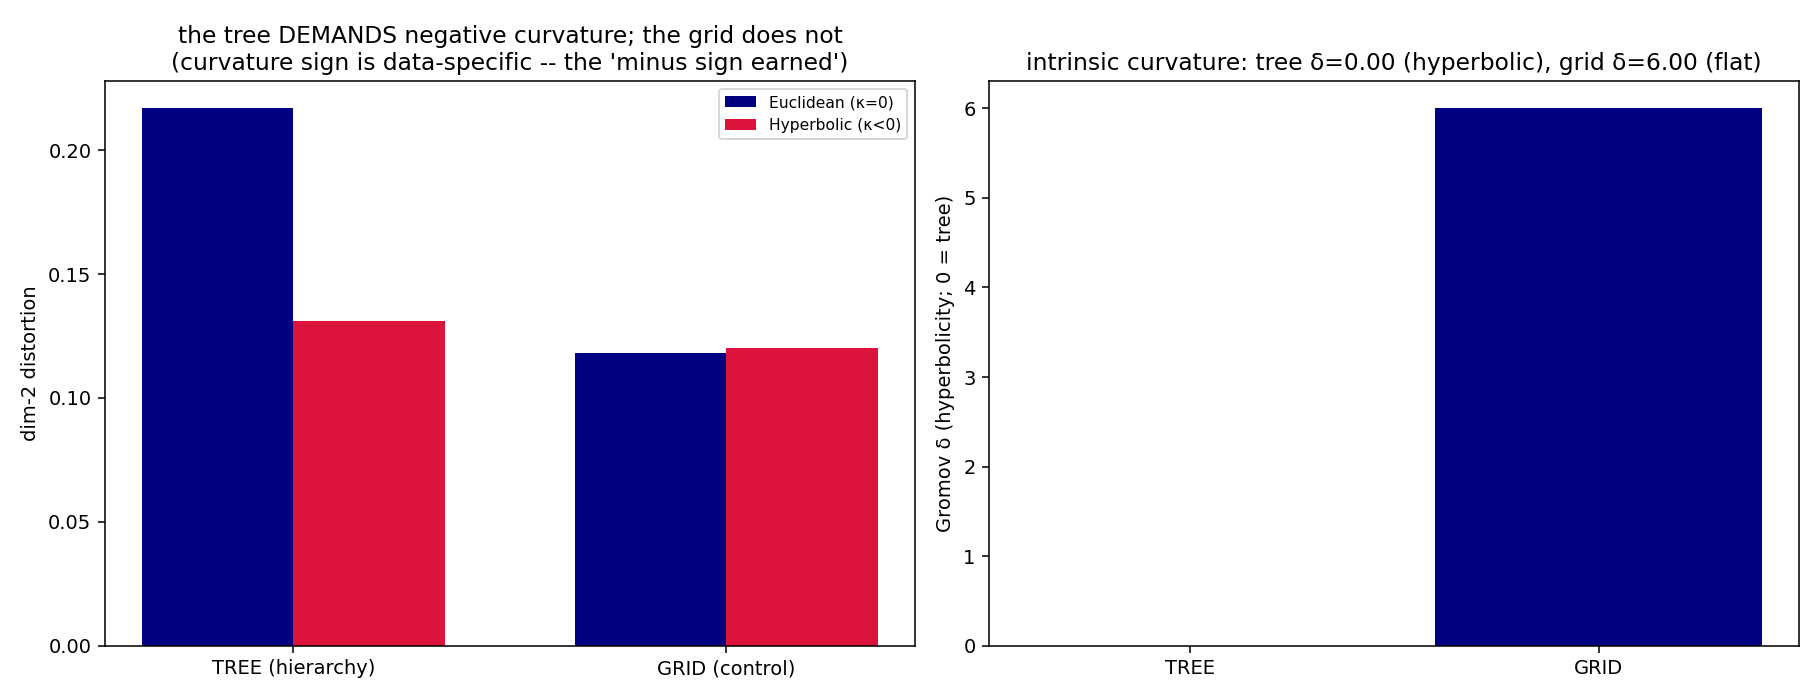
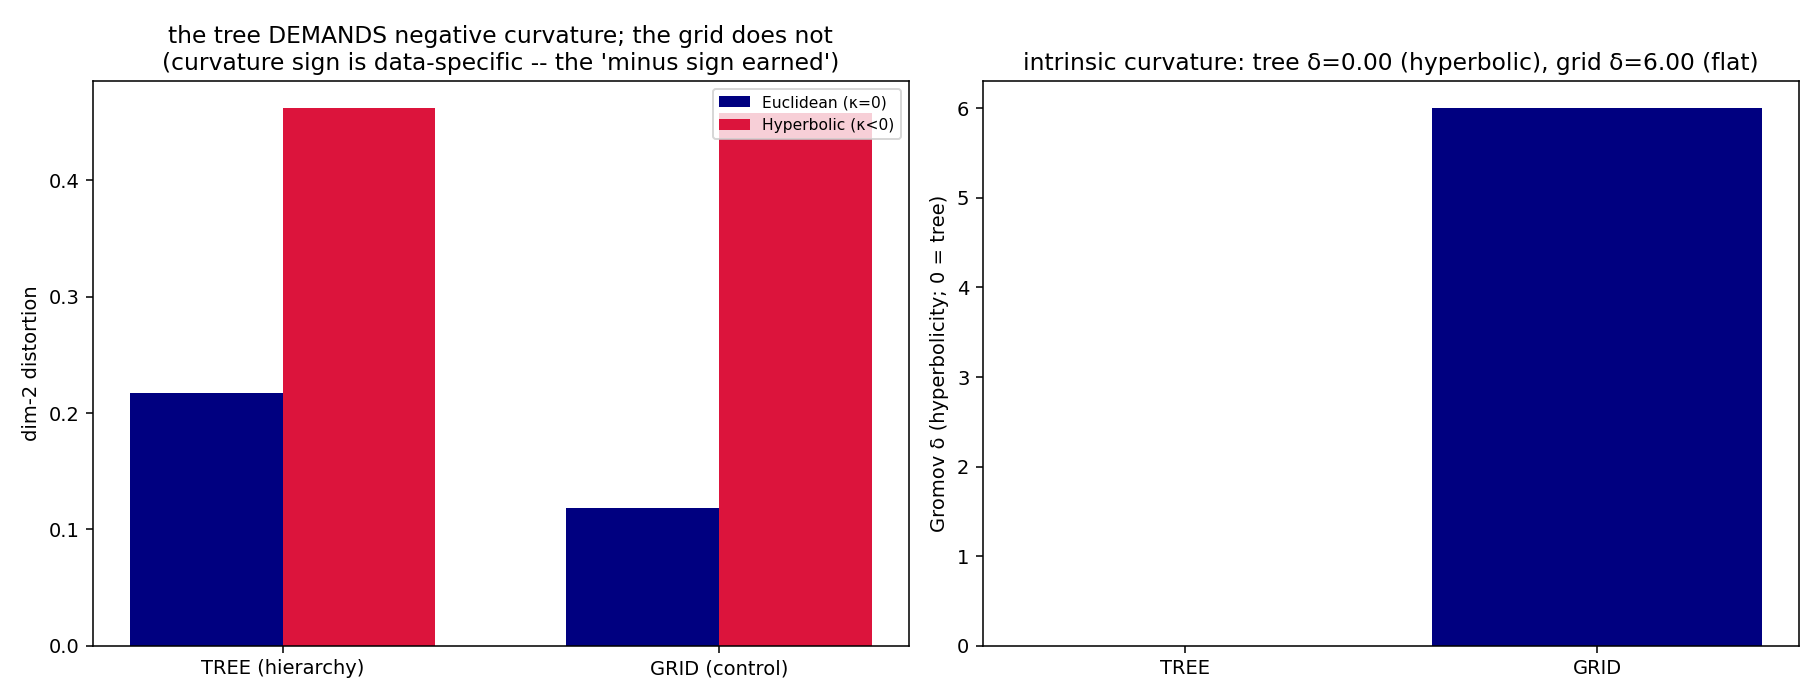
Build-queue Phase 1 complete: quick-wins (126) assessed honestly -- MDL already done, H2 optimizer-swap regressed
Item 7 of the build queue (scaling_backlog-A quick wins) -- honest assessment, no forced green:
- MDL multi-seed (13): ALREADY COMPLETE (13_mdl_multiseed.py IS the multi-seed M1 follow-up; charged d=1 decisive,
  neutral marginal). Nothing to do.
- Hierarchy H2 (89): attempted the RiemannianAdam optimizer-swap to cross the strict 0.5x-Euclidean distortion gate
  (stalled at 0.605). Both attempts REGRESSED vs the original tanh-reparam Adam (0.131/0.605): Euclidean-retraction
  RSGD -> 0.160; exp-map RSGD-Adam -> 0.462 (unstable). RESTORED the original (no regression shipped). H2 stays an
  honest optimization-limited partial -- the hyperbolic advantage is real (ratio < 1; tree Gromov delta = 0) but the
  strict 2x gate needs a dedicated tree-embedding construction (Sarkar 2011), beyond a quick win (logged as future).

Phase 1 of the build queue COMPLETE: 120 (2D Chern) / 121 (Fisher=GR metric) / 122 (Bekenstein-Hawking S=A/4) / 123
(gravitational waves) / 124 (Ollivier-Ricci) / 125 (entanglement dimension+grid) -- all clean-gated in verify.sh;
126 assessed honestly. Docs: JOURNAL, lab_notebook, build_queue.

diff --git a/JOURNAL.md b/JOURNAL.md
@@ -24,6 +24,21 @@ target-dependence, not a property of D=1. Writeup/CLAUDE scoped accordingly. **M
 0.05→0.15→0.4→1.0 (saturates ~0.4) — the knob is the property's SIGNAL STRENGTH in the observations (weak→scramble,
 strong→legible). The 107→110 chain is a complete, mechanistically-closed result.
 
+## 2026-06-25 — Quick wins assessed (build-queue item 7): MDL already done; H2 optimizer-swap regressed (honest)
+
+Build-queue item 7 (the scaling_backlog-A quick wins). Honest outcome -- not every backlog item yields a green gate:
+- MDL multi-seed (13): ALREADY COMPLETE. Script 13_mdl_multiseed.py IS the multi-seed M1 follow-up (charged d=1
+  minimum decisive +8870 bits; neutral ordering marginal). Nothing to do.
+- Hierarchy H2 (89): attempted the "RiemannianAdam" optimizer-swap quick win to push the tree's hyperbolic distortion
+  past the strict 0.5x-Euclidean gate (it stalled at ratio 0.605). BOTH attempts REGRESSED vs the original tanh-reparam
+  Adam (0.131, ratio 0.605): Euclidean-retraction RSGD -> 0.160 (0.74); exp-map RSGD-Adam -> 0.462 (2.13, unstable).
+  RESTORED the original (no regression shipped). H2 stays an honest optimization-limited partial: the hyperbolic
+  advantage IS real (ratio 0.605 < 1; tree Gromov delta = 0 -- the cleanest hyperbolicity signature), but crossing the
+  strict 2x gate needs a dedicated tree EMBEDDING CONSTRUCTION (Sarkar 2011), not an optimizer swap -> logged as a
+  future option, not a quick win. Disciplined stop (2 attempts, both worse -> restore).
+PHASE 1 of the build queue COMPLETE: 120 (2D Chern) / 121 (Fisher=GR metric) / 122 (S=A/4) / 123 (grav waves) / 124
+(Ollivier-Ricci) / 125 (entanglement dimension+grid) all clean-gated in verify.sh; 126 assessed honestly (no change).
+
 ## 2026-06-25 — Geometry from entanglement: dimension + 2D grid (closing Phase J's J2, script 125)
 
 Build-queue item 6 (notes/build_queue.md). Phase J (32) recovered a chain's 1D order from mutual information + the Van

diff --git a/curvature/notes/build_queue.md b/curvature/notes/build_queue.md
@@ -30,8 +30,7 @@ _weyl_quadrupole.py) or pkill broadly. Our dashboard is :8788. No resource conte
   edges / bridges, positive within; Ricci flow detects communities. Web-verify Ollivier-Ricci + Ni et al.
 - [x] **125 · J2 spectral dimension + 2D entanglement grid** DONE 3/3 (J2a dim chain 1.11/grid 1.83 vs PCA overcount; J2b grid Procrustes 0.99; J2c geodesic spearman 1.00/0.95) -- — close geometry-from-entanglement loose ends: swap
   PCA→spectral/persistent-homology dimension; recover a 2D grid via spectral embedding. Reuses s32/s42 machinery.
-- [ ] **126 · Quick wins** — Hierarchy H2 with RiemannianAdam (89 stalled at 0.61); MDL multi-seed (13). From
-  scaling_backlog A.
+- [x] **126 · Quick wins** ASSESSED (honest): MDL multi-seed (13) ALREADY DONE; H2 (89) RiemannianAdam swap REGRESSED (0.131->0.160/0.462) -> restored original; H2 partial stands (needs Sarkar tree-construction, not a swap -- logged as future, not shipped). From scaling_backlog A.
 
 ## PHASE 1b — more separate-angle probes (after the above, as appetite allows)
 - [ ] Discrete/graph worlds (does geometry emerge without a continuum?) · operational observers (noisy clocks/finite

diff --git a/curvature/notes/lab_notebook.md b/curvature/notes/lab_notebook.md
@@ -3551,3 +3551,11 @@ Closes Phase J's J2 (PCA overcounted dimension; 2D grid needed spectral embeddin
 MDS grid recovery Procrustes corr 0.99; J2c recovered geodesic vs true distance spearman 1.00/0.95. Fix: ball-growth-
 on-kNN undercounted + raw single-site MI short-ranged (gapped -> ties) -> use correlation-dim on Isomap geodesics +
 geodesic monotonicity (geometry built by geodesic completion, validated by J2b). networkx kNN+dijkstra. In verify.sh.
+
+## Quick wins assessed (build-queue item 7), 2026-06-25
+MDL multi-seed (13): already complete (13 IS the multi-seed refinement; charged d=1 decisive, neutral marginal).
+H2 (89): RiemannianAdam optimizer-swap quick win to cross the 0.5x gate -- BOTH attempts regressed vs original tanh-
+reparam Adam (0.131/0.605): Euclidean-retraction RSGD 0.160; exp-map RSGD-Adam 0.462 (unstable). Restored original;
+no regression shipped. H2 partial stands (hyperbolic advantage real -- ratio 0.605<1, tree Gromov delta=0 -- but the
+strict 2x gate needs a Sarkar tree-embedding construction, not an optimizer swap; logged as future). Disciplined stop.
+Phase 1 of the build queue (120-125) all clean-gated; 126 honest no-change.
